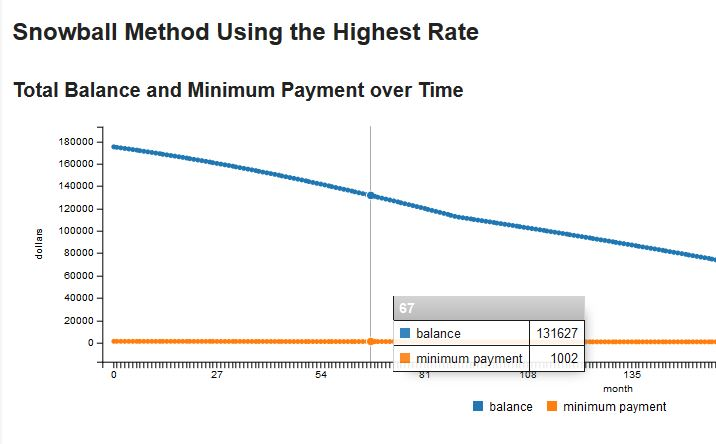
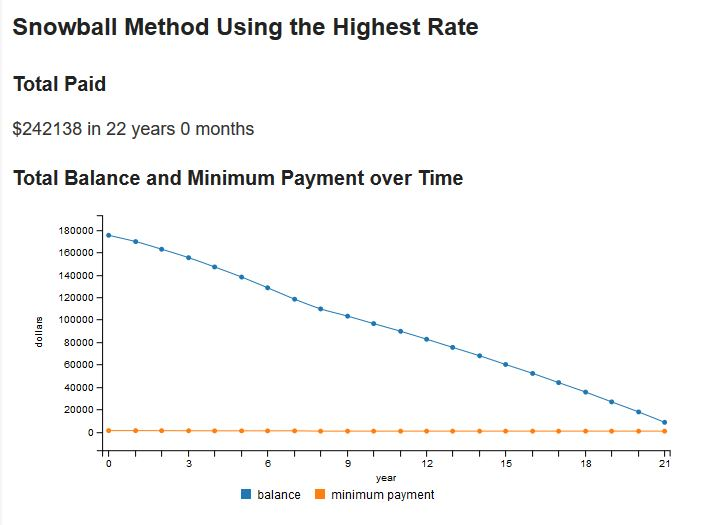
final

diff --git a/_includes/avalanche.min.html b/_includes/avalanche.min.html
@@ -1,5 +1,5 @@
-<h2>Just Making the Payments</h2><h3>Total Paid</h3><div id="just-payments-total-paid"></div><h3>Total Balance and Minimum Payment over Time</h3><div id="just-payments-balance-chart" style="width: 90%; height: 300px;"></div><h3>Average Interest Rate over Time</h3><div id="just-payments-interest-chart" style="width: 90%; height: 300px;"></div>
-<h2>Snowball Method Using the Highest Rate</h2><h3>Total Balance and Minimum Payment over Time</h3><div id="highest-rate-balance-chart" style="width: 90%; height: 300px;"></div><h3>Average Interest Rate over Time</h3><div id="highest-rate-interest-chart" style="width: 90%; height: 300px;"></div>
-<h2>Snowball Method Using the Lowest Balance</h2><h3>Total Balance and Minimum Payment over Time</h3><div id="lowest-balance-balance-chart" style="width: 90%; height: 300px;"></div><h3>Average Interest Rate over Time</h3><div id="lowest-balance-interest-chart" style="width: 90%; height: 300px;"></div>
+<h2>Just Making the Payments</h2><h3>Total Paid</h3><div id="just-payments-total-paid"></div><h3>Total Balance and Minimum Payment over Time</h3><div id="just-payments-balance-chart" class="snowball-chart"></div><h3>Average Interest Rate over Time</h3><div id="just-payments-interest-chart" class="snowball-chart"></div>
+<h2>Snowball Method Using the Highest Rate</h2><h3>Total Balance and Minimum Payment over Time</h3><div id="highest-rate-balance-chart" class="snowball-chart"></div><h3>Average Interest Rate over Time</h3><div id="highest-rate-interest-chart" class="snowball-chart"></div>
+<h2>Snowball Method Using the Lowest Balance</h2><h3>Total Balance and Minimum Payment over Time</h3><div id="lowest-balance-balance-chart" class="snowball-chart"></div><h3>Average Interest Rate over Time</h3><div id="lowest-balance-interest-chart" class="snowball-chart"></div>
 <form name="form1" method="GET"><table id="debt-table"><thead><tr><th>Debt</th><th>Starting Balance</th><th>Rate</th><th>Payment</th><th>Minimum Payment</th><th>Minimum Payment Type</th></tr></thead><tbody></tbody></table><input type="button" value="Add Row" id="addRowButton" /><input type="button" value="Remove Row" id="removeRowButton" /><input type="submit" value="Submit"></form>
-<script type="text/javascript">function DebtProto(){this.snowball=0,this.getMinPayment=function(){return"percent"===this.minpaymenttype?Math.max(Math.round(this.balance*this.minpayment),1):this.minpayment},this.getPayment=function(){return this.onlymin?this.getMinPayment():this.payment},this.update=function(){this.balance=this.balance*(1+this.rate/12)-this.getPayment(),this.balance=Math.round(this.balance),this.balance<this.payment&&("dollar"===this.getminpaymenttype&&this.balance<this.minpayment&&(this.minpayment=this.balance),this.snowball=this.payment-this.balance,this.payment=this.balance),this.balance<=0&&(this.balance=0,this.minpayment=0,this.snowball=this.payment,this.payment=0)}}function Debt(a,b,c,d,e,f,g){this.name=a,this.balance=b,this.rate=c,this.payment=d,this.onlymin=e,this.minpayment=f,this.minpaymenttype=g,$.extend(this,new DebtProto)}function avalanche(a,b){var c=a.reduce(function(a,b){return a+b.snowball},0);if(c>0){var d=a.filter(function(a){return 0==a.snowball});if(a.forEach(function(a){a.snowball=0}),d.length>0){var e=b(d);e.payment=e.payment+c,e.onlymin=!1}}}function sumBalances(a){return a.reduce(function(a,b){return a+b.balance},0)}function sumMinpayments(a){return a.reduce(function(a,b){return a+b.getMinPayment()},0)}function sumPayments(a){return a.reduce(function(a,b){return a+b.getPayment()},0)}function averageInterest(a){var b=sumBalances(a),c=a.reduce(function(a,b){return a+b.balance*b.rate},0);return c/b}function lowestBalance(a){return a.reduce(function(a,b){return null==a?b:a.balance>b.balance?b:a.balance===b.balance&&a.rate<b.rate?b:a})}function highestRate(a){return a.reduce(function(a,b){return null==a?b:a.rate<b.rate?b:a.rate===b.rate&&a.balance>b.balance?b:a})}function usingMethod(a,b){for(var c={balances:[["month","balance","minimum payment"],[0,sumBalances(a),sumMinpayments(a)]],interests:[["month","interest"],[0,100*averageInterest(a)]],totalPaid:0,months:0},d=1;sumBalances(a)>0&&(a.forEach(function(a){a.update()}),c.balances.push([d,sumBalances(a),sumMinpayments(a)]),c.interests.push([d,100*averageInterest(a)]),c.totalPaid=c.totalPaid+sumPayments(a),"undefined"!=typeof b&&avalanche(a,b),d++,!(d>500)););return c.months=d,c}function getResults(a){var b=JSON.parse(JSON.stringify(a));b.forEach(function(a){$.extend(a,new DebtProto)});var c=JSON.parse(JSON.stringify(a));c.forEach(function(a){$.extend(a,new DebtProto)});var d=JSON.parse(JSON.stringify(a));d.forEach(function(a){$.extend(a,new DebtProto)});var e={highestRate:usingMethod(b,highestRate),lowestBalance:usingMethod(c,lowestBalance),justPayments:usingMethod(d)};return e}function getTimeString(a){var b=Math.floor(a/12),c=a-12*b;return b+" years "+c+" months"}function generateRow(a){var b="<input type='text' name='name' value='"+a.name+"' required />",c="$<input type='number' name='balance' min='0' value='"+a.balance+"' required />",d="<input type='number' name='rate' min='0' max='100' step='0.01' value='"+100*a.rate+"' required />%",e="$<input type='number' name='payment' min='0' value='"+a.payment+"' required />",f="<input type='checkbox' name='onlymin' value='true' "+(a.onlymin?"checked ":"")+"/> Minimum",g="<input type='number' name='minpayment' min='0' value='";g+="percent"===a.minpaymenttype?100*a.minpayment:a.minpayment,g+="' required />";var h="<select name='minpaymenttype'><option value='dollar'"+("dollar"===a.minpaymenttype?" selected":"")+">dollar</option><option value='percent'"+("percent"===a.minpaymenttype?" selected":"")+">percent</option></select>",i="<tr><td>"+b+"</td><td>"+c+"</td><td>"+d+"</td><td>"+e+f+"</td><td>"+g+"</td><td>"+h+"</td></tr>";return i}function make(a,b){$("#"+a+"-total-paid").append("$"+b.totalPaid+" in "+getTimeString(b.months)),c3.generate({bindto:"#"+a+"-balance-chart",data:{x:"month",rows:b.balances,type:"spline"},axis:{x:{label:{text:"month",position:"outer-center"}},y:{label:{text:"dollars",position:"outer-middle"}}}}),c3.generate({bindto:"#"+a+"-interest-chart",data:{x:"month",rows:b.interests,type:"spline"},axis:{x:{label:{text:"month",position:"outer-center"}},y:{label:{text:"percent",position:"outer-middle"}}}})}$(document).ready(function(){$("#addRowButton").click(function(){var a=generateRow(new Debt("",0,0,0,0,"dollar"));$("#debt-table tbody").append(a)}),$("#removeRowButton").click(function(){$("#debt-table tbody tr").last().remove()});var a;if(hasKey("name")&&hasKey("balance")&&hasKey("rate")&&hasKey("payment")&&hasKey("minpayment"))a=getObjectArray(),a.forEach(function(a){$.extend(a,new DebtProto),a.rate=a.rate/100,a.balance=parseInt(a.balance),a.payment=parseInt(a.payment),"percent"===a.minpaymenttype?a.minpayment=a.minpayment/100:a.minpayment=parseInt(a.minpayment)});else{a=new Array;var b=new Debt("mortgage",15e4,.03,750,!0,750,"dollar"),c=new Debt("car loan",2e4,.1,250,!0,250,"dollar"),d=new Debt("credit card 1",5e3,.2,100,!1,.04,"percent"),e=new Debt("credit card 2",100,.01,100,!0,.04,"percent");a=[b,c,d,e]}for(var f=0;f<a.length;f++){var g=a[f];$("#debt-table").append(generateRow(g))}var h=getResults(a);make("highest-rate",h.highestRate),make("lowest-balance",h.lowestBalance),make("just-payments",h.justPayments)});</script>
+<script type="text/javascript">function DebtProto(){this.snowball=0,this.getMinPayment=function(){return"percent"===this.minpaymenttype?Math.max(Math.round(this.balance*this.minpayment),1):this.minpayment},this.getPayment=function(){return this.onlymin?this.getMinPayment():this.payment},this.update=function(){this.balance=this.balance*(1+this.rate/12)-this.getPayment(),this.balance=Math.round(this.balance),this.balance<this.payment&&("dollar"===this.getminpaymenttype&&this.balance<this.minpayment&&(this.minpayment=this.balance),this.snowball=this.payment-this.balance,this.payment=this.balance),this.balance<=0&&(this.balance=0,this.minpayment=0,this.snowball=this.payment,this.payment=0)}}function Debt(a,b,c,d,e,f,g){this.name=a,this.balance=b,this.rate=c,this.payment=d,this.onlymin=e,this.minpayment=f,this.minpaymenttype=g,$.extend(this,new DebtProto)}function avalanche(a,b){var c=a.reduce(function(a,b){return a+b.snowball},0);if(c>0){var d=a.filter(function(a){return 0==a.snowball});if(a.forEach(function(a){a.snowball=0}),d.length>0){var e=b(d);e.payment=e.payment+c,e.onlymin=!1}}}function sumBalances(a){return a.reduce(function(a,b){return a+b.balance},0)}function sumMinpayments(a){return a.reduce(function(a,b){return a+b.getMinPayment()},0)}function sumPayments(a){return a.reduce(function(a,b){return a+b.getPayment()},0)}function averageInterest(a){var b=sumBalances(a),c=a.reduce(function(a,b){return a+b.balance*b.rate},0);return c/b}function lowestBalance(a){return a.reduce(function(a,b){return null==a?b:a.balance>b.balance?b:a.balance===b.balance&&a.rate<b.rate?b:a})}function highestRate(a){return a.reduce(function(a,b){return null==a?b:a.rate<b.rate?b:a.rate===b.rate&&a.balance>b.balance?b:a})}function usingMethod(a,b){for(var c={balances:[["year","balance","minimum payment"],[0,sumBalances(a),sumMinpayments(a)]],interests:[["year","interest"],[0,100*averageInterest(a)]],totalPaid:0,months:0},d=1,e=sumBalances(a);e>0&&(a.forEach(function(a){a.update()}),d%12===0&&(c.balances.push([d/12,e,sumMinpayments(a)]),c.interests.push([d/12,100*averageInterest(a)])),c.totalPaid=c.totalPaid+sumPayments(a),"undefined"!=typeof b&&avalanche(a,b),d++,!(d>500));e=sumBalances(a));return c.months=d,c}function getResults(a){var b=JSON.parse(JSON.stringify(a));b.forEach(function(a){$.extend(a,new DebtProto)});var c=JSON.parse(JSON.stringify(a));c.forEach(function(a){$.extend(a,new DebtProto)});var d=JSON.parse(JSON.stringify(a));d.forEach(function(a){$.extend(a,new DebtProto)});var e={highestRate:usingMethod(b,highestRate),lowestBalance:usingMethod(c,lowestBalance),justPayments:usingMethod(d)};return e}function getTimeString(a){var b=Math.floor(a/12),c=a-12*b;return b+" years "+c+" months"}function generateRow(a){var b="<input type='text' name='name' value='"+a.name+"' required />",c="$<input type='number' name='balance' min='0' value='"+a.balance+"' required />",d="<input type='number' name='rate' min='0' max='100' step='0.01' value='"+100*a.rate+"' required />%",e="$<input type='number' name='payment' min='0' value='"+a.payment+"' required />",f="<input type='checkbox' name='onlymin' value='true' "+(a.onlymin?"checked ":"")+"/> Minimum",g="<input type='number' name='minpayment' min='0' value='";g+="percent"===a.minpaymenttype?100*a.minpayment:a.minpayment,g+="' required />";var h="<select name='minpaymenttype'><option value='dollar'"+("dollar"===a.minpaymenttype?" selected":"")+">dollar</option><option value='percent'"+("percent"===a.minpaymenttype?" selected":"")+">percent</option></select>",i="<tr><td>"+b+"</td><td>"+c+"</td><td>"+d+"</td><td>"+e+f+"</td><td>"+g+"</td><td>"+h+"</td></tr>";return i}function make(a,b){$("#"+a+"-total-paid").append("$"+b.totalPaid+" in "+getTimeString(b.months)),c3.generate({bindto:"#"+a+"-balance-chart",data:{x:"year",rows:b.balances,type:"spline"},axis:{x:{label:{text:"year",position:"outer-center"}},y:{label:{text:"dollars",position:"outer-middle"}}}}),c3.generate({bindto:"#"+a+"-interest-chart",data:{x:"year",rows:b.interests,type:"spline"},axis:{x:{label:{text:"year",position:"outer-center"}},y:{label:{text:"percent",position:"outer-middle"}}}})}$(document).ready(function(){$("#addRowButton").click(function(){var a=generateRow(new Debt("",0,0,0,0,"dollar"));$("#debt-table tbody").append(a)}),$("#removeRowButton").click(function(){$("#debt-table tbody tr").last().remove()});var a;if(hasKey("name")&&hasKey("balance")&&hasKey("rate")&&hasKey("payment")&&hasKey("minpayment"))a=getObjectArray(),a.forEach(function(a){$.extend(a,new DebtProto),a.rate=a.rate/100,a.balance=parseInt(a.balance),a.payment=parseInt(a.payment),"percent"===a.minpaymenttype?a.minpayment=a.minpayment/100:a.minpayment=parseInt(a.minpayment)});else{a=new Array;var b=new Debt("mortgage",15e4,.03,750,!0,750,"dollar"),c=new Debt("car loan",2e4,.1,250,!0,250,"dollar"),d=new Debt("credit card 1",5e3,.2,100,!1,.04,"percent"),e=new Debt("credit card 2",100,.01,100,!0,.04,"percent");a=[b,c,d,e]}for(var f=0;f<a.length;f++){var g=a[f];$("#debt-table").append(generateRow(g))}var h=getResults(a);make("highest-rate",h.highestRate),make("lowest-balance",h.lowestBalance),make("just-payments",h.justPayments)});</script>

diff --git a/_posts/2016-10-07-charting_the_snowball_method_of_paying_off_debts.md b/_posts/2016-10-07-charting_the_snowball_method_of_paying_off_debts.md
@@ -13,4 +13,4 @@ I was curious as to the difference between the two methods of snowballing debt. 
 
 Scroll down to the bottom to play with the variables. I used [c3](http://c3js.org/) for the charts, which in turn uses [d3](https://d3js.org/). I also used [jQuery](https://jquery.com/). After I was done, I used [jscompress.com](https://jscompress.com/) to minify and hopefully improve some performance. [Check out the unminified code here.](https://github.com/hendrixjoseph/hendrixjoseph.github.io/blob/master/_includes/avalanche.html)
 
-{% include avalanche.html %}
+{% include avalanche.min.html %}
